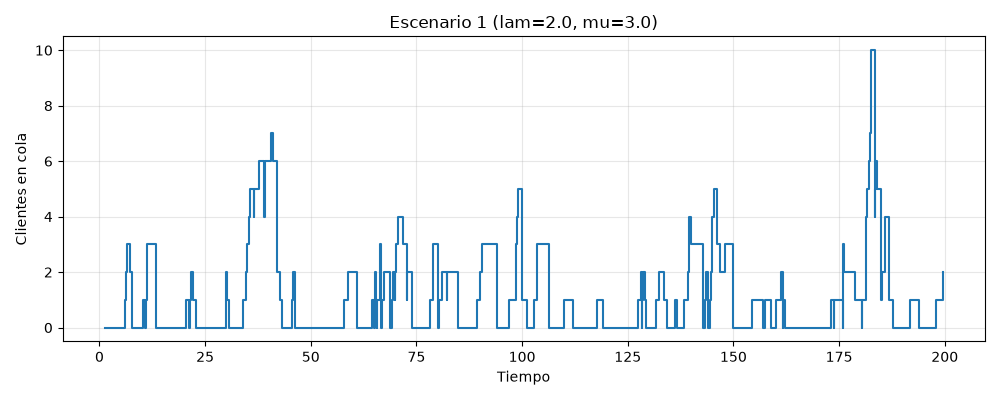
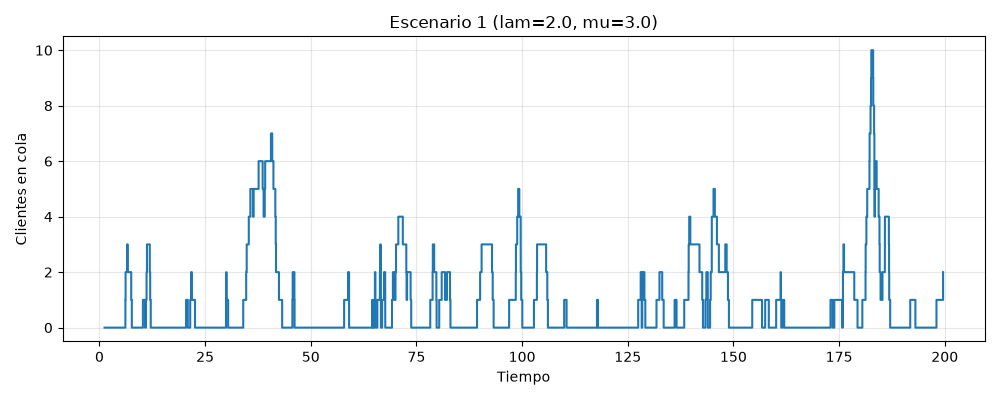
fix: record queue length when service starts

diff --git a/tests/test_simulacion.py b/tests/test_simulacion.py
@@ -29,6 +29,14 @@ def test_simulacion_es_reproducible_con_la_misma_semilla():
     assert resultado_1 == resultado_2
 
 
+def test_muestras_cola_registran_llegadas_e_inicios_de_servicio():
+    resultados = simular(2.0, 3.0, 100, semilla=42)
+
+    # One sample when each customer arrives and another when service starts.
+    esperados = resultados["clientes_llegados"] + len(resultados["tiempos_espera"])
+    assert len(resultados["muestras_cola"]) == esperados
+
+
 def test_sistema_inestable_lanza_error():
     with pytest.raises(ValueError, match="El sistema no es estable"):
         simular(3.0, 3.0, 100)

diff --git a/src/simulacion.py b/src/simulacion.py
@@ -64,6 +64,9 @@ def simular(lam, mu, tiempo_simulacion=1000, semilla=42):
             inicio_servicio = env.now
             tiempos_espera.append(inicio_servicio - llegada)
 
+            # Registrar la cola cuando el cliente sale de ella
+            muestras_cola.append((env.now, len(servidor.queue)))
+
             # Generar duracion aleatoria del servicio
             tiempo_servicio = rng.exponential(1 / mu)
 
